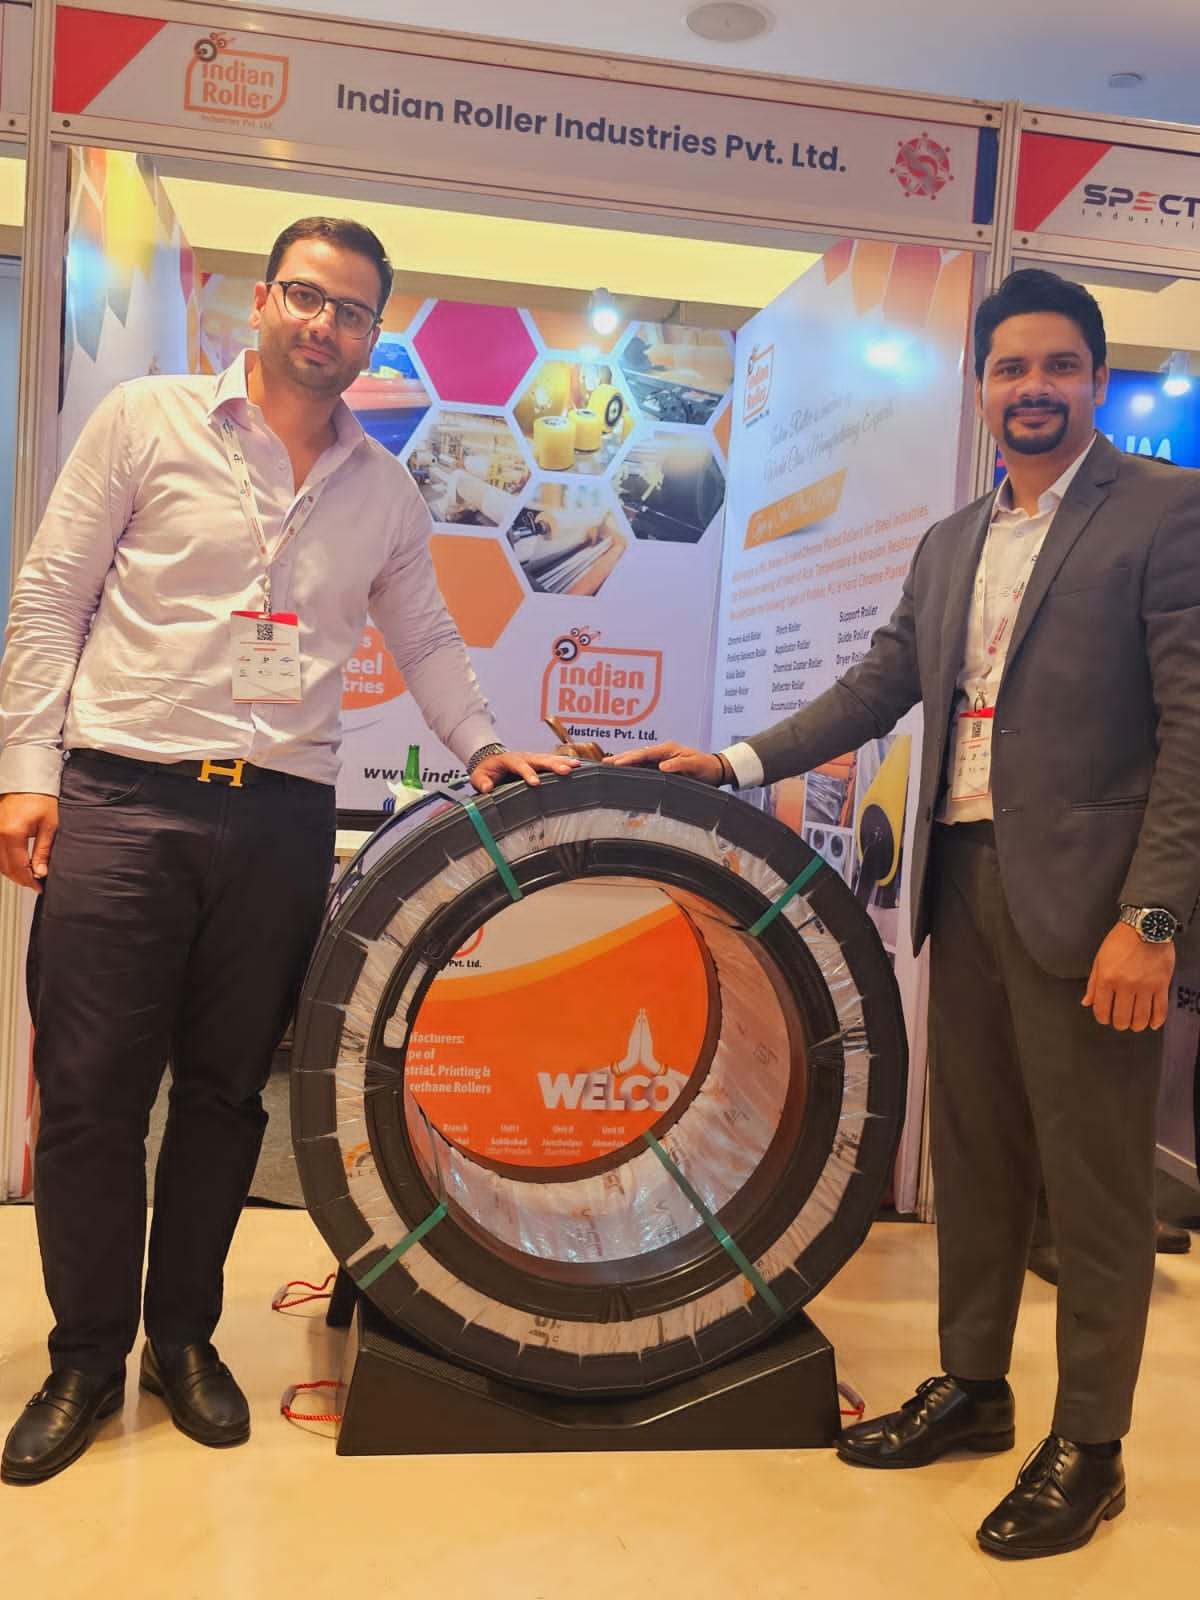
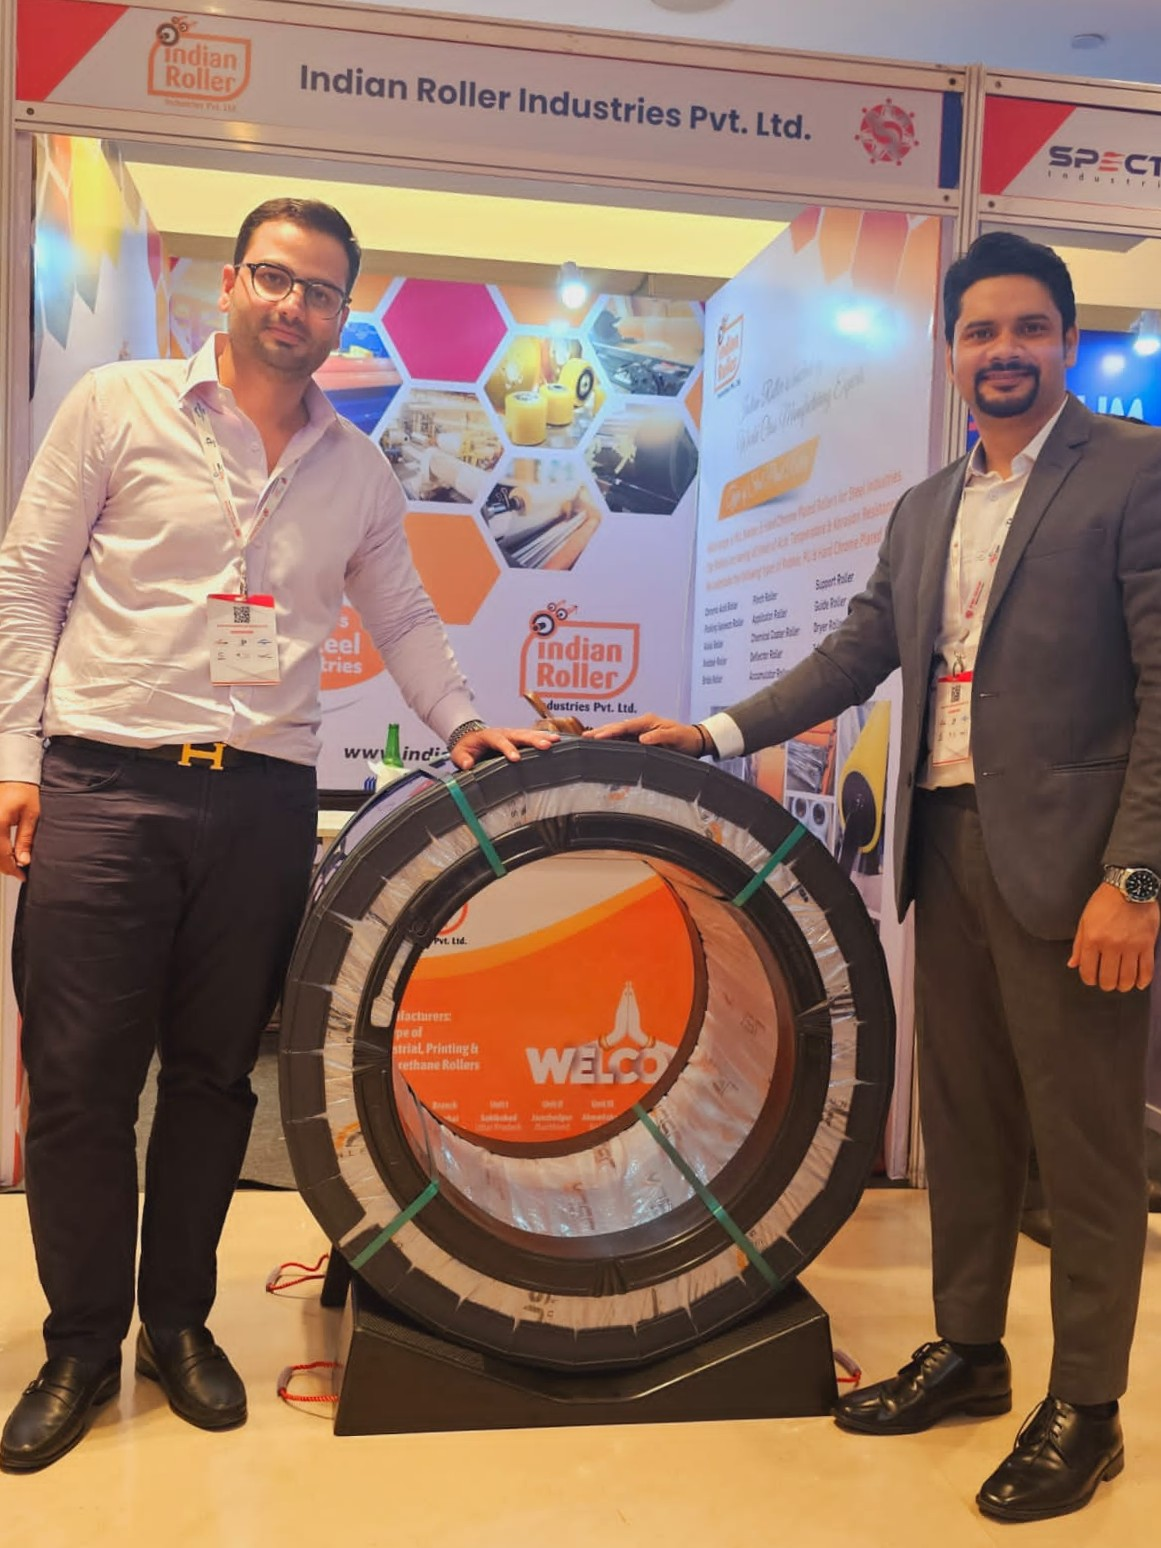
some changes on the about us images

diff --git a/frontend-indianroller/components/about/AboutDetails.tsx b/frontend-indianroller/components/about/AboutDetails.tsx
@@ -2,6 +2,8 @@
 import React from "react";
 import Image from "next/image";
 import { motion } from "framer-motion";
+import Link from "next/link";
+
 
 const AboutDetails = () => {
   return (
@@ -20,7 +22,7 @@ const AboutDetails = () => {
             {/* Main Industrial Image */}
             <div className="relative z-10 rounded-sm overflow-hidden shadow-2xl border-b-8 border-orange-500">
               <Image 
-                src="/about-img/about1.jpg" // Aapki di gayi image yahan rakhein
+                src="/about-img/about-img.png" 
                 alt="IRI Industrial Roller Manufacturing" 
                 width={600}
                 height={450}
@@ -84,13 +86,15 @@ const AboutDetails = () => {
             </div>
 
             {/* Action Button */}
-            <motion.button
-              whileHover={{ scale: 1.05 }}
-              whileTap={{ scale: 0.95 }}
-              className="mt-10 bg-black text-white px-10 py-4 text-[10px] font-black uppercase tracking-[2px] hover:bg-orange-500 transition-all duration-300 shadow-xl"
-            >
-              Contact Our Experts
-            </motion.button>
+            <Link href="/contact">
+  <motion.button
+    whileHover={{ scale: 1.05 }}
+    whileTap={{ scale: 0.95 }}
+    className="mt-10 bg-black text-white px-10 py-4 text-[10px] font-black uppercase tracking-[2px] hover:bg-orange-500 transition-all duration-300 shadow-xl"
+  >
+    Contact Our Experts
+  </motion.button>
+</Link>
           </motion.div>
 
         </div>

diff --git a/frontend-indianroller/components/Advantages.tsx b/frontend-indianroller/components/Advantages.tsx
@@ -138,7 +138,7 @@ export default function AdvantagesSection() {
         whileInView={{ opacity: 1, y: 0 }}
         viewport={{ once: false, amount: 0.3 }}
         transition={{ duration: 0.8, ease: "easeOut" }}
-        className="relative z-30 bg-black text-white w-full lg:w-[52%] py-6 px-8 md:px-12 lg:pl-32 mt-[-50px] lg:mt-[-350px]"
+        className="relative z-30 bg-black text-white w-full lg:w-[52%] py-6 px-8 md:px-6 lg:pl-16 mt-[-50px] lg:mt-[-350px]"
       >
         <p className="text-gray-500 font-bold text-[10px] tracking-[4px] uppercase mb-4">Advantages</p>
         <h2 className="text-3xl lg:text-5xl font-black uppercase tracking-tighter mb-8 leading-tight">
